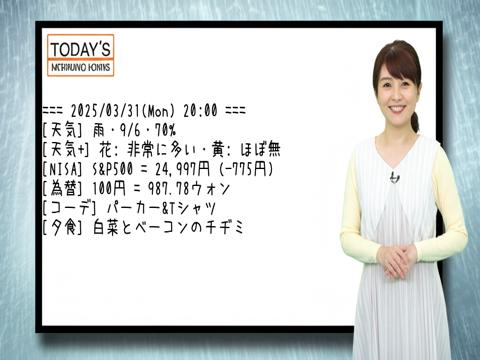
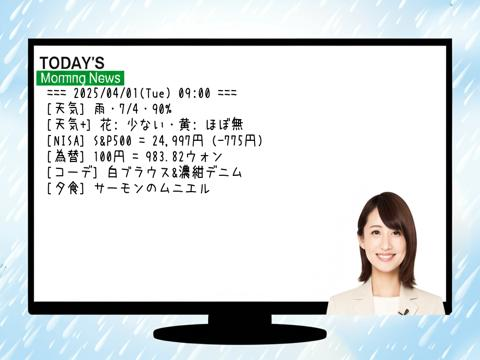
2025401#1_modify
modify : today outfit

diff --git a/apps/today.py b/apps/today.py
@@ -59,12 +59,15 @@ def get_today_info():
     today_won_rate = get_today_won()
 
     # コーデ・夕食
-    recommend_outfit_dinner = func_gemini.get_recommend_outfit_dinner(
-        NEW_LINE.join(today_weather)
-    )
+    # recommend_outfit_dinner = func_gemini.get_recommend_outfit_dinner(
+    #     NEW_LINE.join(today_weather)
+    # )
 
-    today_outfit = recommend_outfit_dinner[0]
+    # today_outfit = recommend_outfit_dinner[0]
     # today_dinner = recommend_outfit_dinner[1].replace(NEW_LINE, const.SYM_BLANK)
+
+    # コーデ
+    today_outfit = get_today_outfit()
 
     # 夕食
     today_dinner = get_today_menu()
@@ -163,6 +166,22 @@ def get_today_won() -> str:
     return today_won_rate
 
 
+# 今日のコーデ取得
+def get_today_outfit():
+    url = f"{const.URL_CANCAM}/archives/tag/今日のコーデ"
+    soup_main = func_bs.get_elem_from_url(url, attr_val="site-main yellow-main")
+    link_today = func_bs.get_link_from_soup(soup_main)
+    soup = func_bs.get_elem_from_url(link_today, attr_val="entry-content")
+    outfit_elem_1 = get_elem_val_by_class(soup, "wp-block-heading")
+    outfit_elem_p = func_bs.find_elem_by_attr(
+        soup, tag=const.TAG_P, list_flg=const.FLG_ON
+    )
+    outfit_elem_2 = outfit_elem_p[1].text
+    outfit_text = outfit_elem_1 + const.SYM_NEW_LINE + outfit_elem_2
+    today_outfit = func_gemini.get_recommend_outfit(outfit_text)
+    return today_outfit
+
+
 # 今日のレシピメニュー取得
 def get_today_menu():
     url = const.URL_RAKUTEN_RECIPE
@@ -171,8 +190,8 @@ def get_today_menu():
         url, attr_val=_class, list_flg=const.FLG_ON
     )
     weekly_menu = weekly_menu_list[const.DATE_WEEKDAY]
-    menu = get_elem_val_by_class(weekly_menu, "text weekly_list__text omit_2line")
-    return menu
+    today_menu = get_elem_val_by_class(weekly_menu, "text weekly_list__text omit_2line")
+    return today_menu
 
 
 # 要素値取得
@@ -189,5 +208,6 @@ def get_elem_val_by_class(soup, class_: str) -> str:
 
 
 if __name__ == const.MAIN_FUNCTION:
-    item_list = get_item_list()
-    func.print_test_data(item_list)
+    # item_list = get_item_list()
+    # func.print_test_data(item_list)
+    get_today_outfit()

diff --git a/apps/utils/function_gemini.py b/apps/utils/function_gemini.py
@@ -145,6 +145,7 @@ def get_today_news_image(forecast: str, msg: str):
     contents = (
         "A blank screen with nothing displayed is visible."
         "The full screen is a large monitor used for television broadcasting."
+        "The monitor accounts for 90percent of the final image perception."
         "The program's name is 'Today's Morning News.'"
         "The program logo should be displayed in the top-left of the monitor screen."
         f"The background should be an image that conveys the idea of '{today_weather}'."
@@ -155,7 +156,12 @@ def get_today_news_image(forecast: str, msg: str):
         "Generate the image according to this size."
         "The image should not display any Japanese text or kanji."
     )
-    msg_data = {"msg": msg, "font_type": "uzura", "font_size": 28, "xy_size": (100, 160)}
+    msg_data = {
+        "msg": msg,
+        "font_type": "uzura",
+        "font_size": 28,
+        "xy_size": (100, 160),
+    }
     file_path = get_generate_image(div, contents, msg_data)
     return file_path
 
@@ -178,6 +184,23 @@ def get_recommend_outfit_dinner(today_weather: str):
     contents += conditions + reference
     recommend_outfit_dinner = get_gemini_response(contents)
     return recommend_outfit_dinner
+
+
+# おすすめコーデ取得
+def get_recommend_outfit(outfit_text: str):
+    contents = (
+        f"{outfit_text}{NEW_LINE}"
+        "上記の内容を元に、今日のコーデをおすすめしてください。"
+        "コーデは、2アイテム。1番目が上半身、2番目が下半身に着るもの。"
+        "各アイテムは、&で繋げる。"
+        f"2アイテムは、{NUM_WRAP_WIDTH / 2}バイト未満。"
+        "解説と他の文言、記号は不要。"
+        f"※出力例{NEW_LINE}白いTシャツ&デニムジーンズ"
+    )
+    recommend_outfit = get_gemini_response(contents)[0].replace(
+        const.SYM_NEW_LINE, const.SYM_BLANK
+    )
+    return recommend_outfit
 
 
 # ニュース要約取得

diff --git a/apps/line.py b/apps/line.py
@@ -203,15 +203,16 @@ def get_msg_list(auto_flg: bool = const.FLG_ON) -> list[list[str]]:
 # メッセージデータ取得
 def get_msg_data_today() -> tuple[list[str], str]:
     today_info = func_api.get_result_on_app(const.APP_TODAY)
-    date_today = today_info[0][today.app_title]
-    forecast = today_info[1][today.app_title].split("・")[0]
-    data_list = [list(info.values()) for info in today_info[1:]]
-    msg_data = [f"[{data[0]}] {data[1]}" for data in data_list]
+    if today_info:
+        date_today = today_info[0][today.app_title]
+        forecast = today_info[1][today.app_title].split("・")[0]
+        data_list = [list(info.values()) for info in today_info[1:]]
+        msg_data = [f"[{data[0]}] {data[1]}" for data in data_list]
 
-    msg_data_list = get_msg_data_list(
-        FILE_DIV_TODAY, MSG_TYPE_IMG, msg_data, date_today, forecast
-    )
-    return msg_data_list, date_today
+        msg_data_list = get_msg_data_list(
+            FILE_DIV_TODAY, MSG_TYPE_IMG, msg_data, date_today, forecast
+        )
+        return msg_data_list, date_today
 
 
 # LINEメッセージJSONデータ取得

diff --git a/apps/utils/message_constants.py b/apps/utils/message_constants.py
@@ -24,7 +24,8 @@ MSG_ERR_TOKEN_NOT_EXIST = "【認証】トークンが存在しません。"
 MSG_ERR_TOKEN_EXPIRED = "【認証】トークンの有効期限が切れました。"
 MSG_ERR_INVALID_TOKEN = "【認証】トークンが無効です。"
 MSG_ERR_INVALID_API_KEY = "【認証】APIキーが無効です。"
-MSG_ERR_API_RESPONSE_NONE = "【レスポンス】APIレスポンス結果がありません。"
+MSG_ERR_API_REQUEST_CONNECT = "【API】対象URLへ接続できません。"
+MSG_ERR_API_RESPONSE_NONE = "【API】レスポンス結果がありません。"
 MSG_ERR_ENV_VAR_NOT_EXIST = "【環境変数】環境変数が存在しません。"
 MSG_ERR_DATA_NOT_EXIST = "【データ】対象データが存在しません。"
 MSG_ERR_FILE_NOT_EXIST = "【ファイル】対象パスにファイルが存在しません。"

diff --git a/apps/utils/function_api.py b/apps/utils/function_api.py
@@ -24,11 +24,16 @@ def get_response_result(
     if header_json_flg:
         headers.update(const.HEADERS_JSON)
 
-    if request_type == const.REQUEST_TYPE_GET:
-        response = requests.get(url, headers=headers)
+    try:
+        if request_type == const.REQUEST_TYPE_GET:
+            response = requests.get(url, headers=headers)
 
-    elif request_type == const.REQUEST_TYPE_POST:
-        response = requests.post(url, headers=headers, data=data)
+        elif request_type == const.REQUEST_TYPE_POST:
+            response = requests.post(url, headers=headers, data=data)
+
+    except requests.exceptions.ConnectionError as ce:
+        func.print_error_msg(url, msg_const.MSG_ERR_API_REQUEST_CONNECT)
+        return result
 
     if response:
         res_status = response.status_code

diff --git a/apps/utils/constants.py b/apps/utils/constants.py
@@ -389,6 +389,7 @@ FI_LAST_LOGIN_DATE = convert_field(TYPE_DATE, ITEM_LAST_LOGIN_DATE)
 # サイトURL
 URL_GOOGLE = "https://www.google.com"
 URL_TENKI = "https://tenki.jp"
+URL_CANCAM = "https://cancam.jp"
 URL_RAKUTEN_RECIPE = "https://recipe.rakuten.co.jp/menu/"
 URL_SMBC_FUND = "https://www.smd-am.co.jp/fund"
 URL_NAVER_FINANCE = "https://finance.naver.com"

diff --git a/markdown/error_handling.md b/markdown/error_handling.md
@@ -20,6 +20,16 @@
 
 仮想環境を削除し、再作成
 
+# キャッシュ削除
+
+## パス
+
+C:\Users\(ユーザー名)\AppData\Roaming\Code\Cache
+
+### 対応
+
+定期的に削除（今後バッチ化）
+
 # 【Selenium, Playwright】koyeb server
 
 ## エラー内容
